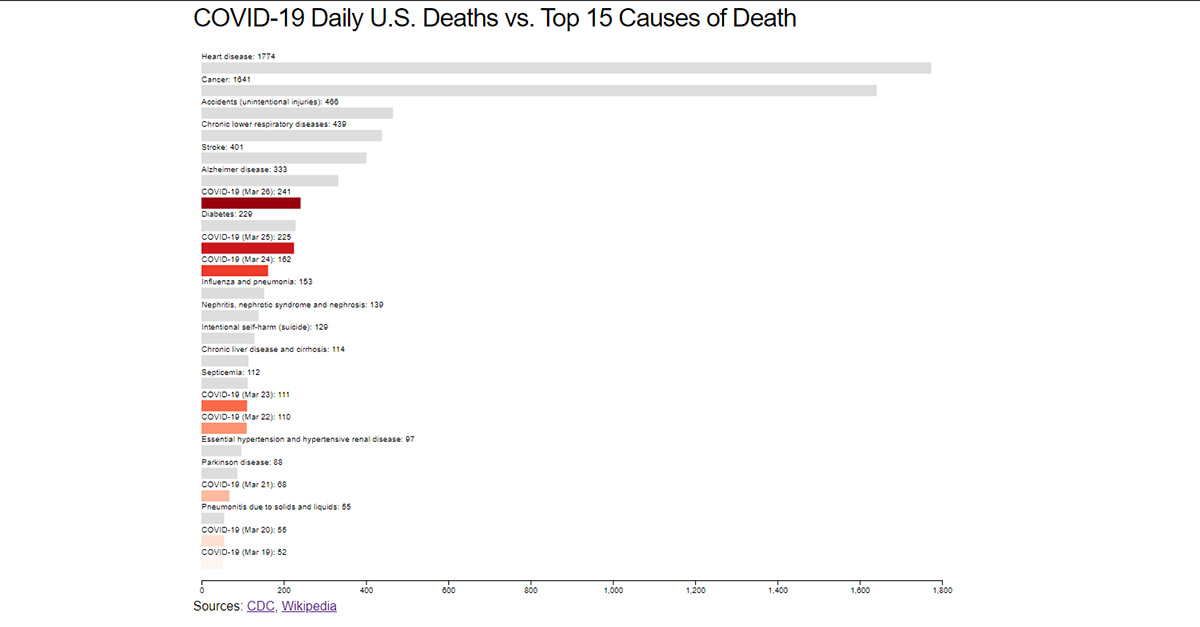
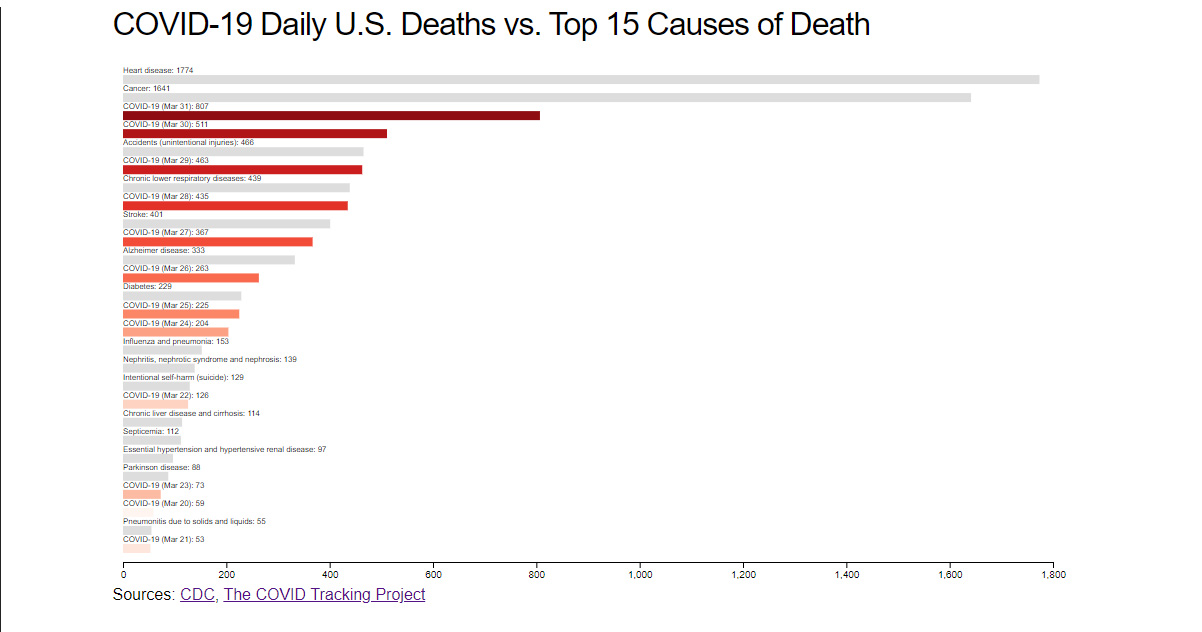
updated social media preview

Changed region(s): [[0.0925, 0.0909, 0.8942, 1.0], [0.0925, 0.0, 0.74, 0.0606]]

diff --git a/main.js b/main.js
@@ -19,7 +19,10 @@ leadingCauses = [
 let dateParse = d3.timeParse('%Y%m%d'),
     dateFormat = d3.timeFormat('%b %d')
 
+var globalData;
+
 d3.json('https://covidtracking.com/api/us/daily').then(function(data) {
+    globalData = data;
     covidData = data.sort((a, b) => dateParse(a.date) - dateParse(b.date)).map( x=> { return {'cause':`COVID-19 (${dateFormat(dateParse(x.date))})`, 'count':+x.deathIncrease}; }).filter(x => x.count > 50)
 
     let color = function(d) {
